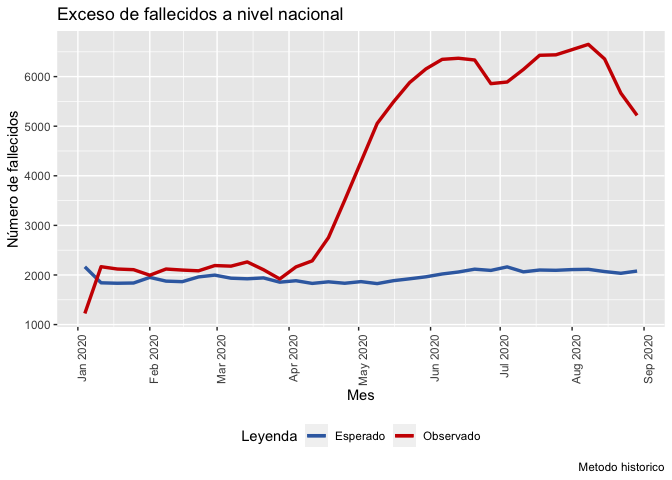
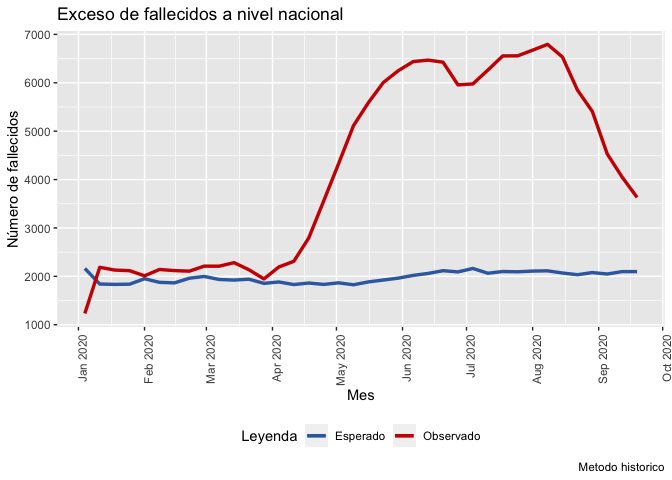
update readme, graficos

diff --git a/README.md b/README.md
@@ -99,14 +99,14 @@ sinadef=da_sinadef()
 ``` r
 head(sinadef)
 #> # A tibble: 6 x 6
-#>   fecha      semana  year dia      `DEPARTAMENTO DOMICILIO` `PROVINCIA DOMICILI…
-#>   <date>      <dbl> <dbl> <chr>    <chr>                    <chr>               
-#> 1 2020-01-24      4  2020 Friday   CUSCO                    CUSCO               
-#> 2 2020-01-30      5  2020 Thursday CALLAO                   CALLAO              
-#> 3 2020-01-19      4  2020 Sunday   CAJAMARCA                CAJAMARCA           
-#> 4 2020-01-13      3  2020 Monday   LA LIBERTAD              TRUJILLO            
-#> 5 2020-01-25      4  2020 Saturday CAJAMARCA                CAJAMARCA           
-#> 6 2020-01-12      3  2020 Sunday   JUNIN                    YAULI
+#>   fecha      semana  year dia       `DEPARTAMENTO DOMICILI… `PROVINCIA DOMICILI…
+#>   <date>      <dbl> <dbl> <chr>     <chr>                   <chr>               
+#> 1 2020-01-22      4  2020 Wednesday LIMA                    LIMA                
+#> 2 2020-01-24      4  2020 Friday    CUSCO                   CUSCO               
+#> 3 2020-01-30      5  2020 Thursday  CALLAO                  CALLAO              
+#> 4 2020-01-19      4  2020 Sunday    CAJAMARCA               CAJAMARCA           
+#> 5 2020-01-13      3  2020 Monday    LA LIBERTAD             TRUJILLO            
+#> 6 2020-01-25      4  2020 Saturday  CAJAMARCA               CAJAMARCA
 ```
 
 Una vez con las bases podemos usar las otras funciones para generar
@@ -183,28 +183,28 @@ muertos de los años 2017,2018, 2019 con la semana de comparación.
 
 ``` r
 base=exceso_muertes(sinadef)[1]
-#> [1] "Ojo: archivo actualizado al 2020-08-31 tomamos referencia hasta la semana 35"
+#> [1] "Ojo: archivo actualizado al 2020-09-23 tomamos referencia hasta la semana 38"
 head(base,30)
 #> [[1]]
-#> # A tibble: 35 x 6
+#> # A tibble: 38 x 6
 #>    semana  year numero_fallecidos Esperado Exceso fecha_ultima
 #>     <dbl> <dbl>             <int>    <dbl>  <dbl> <date>      
-#>  1      1  2020              1224     1224      0 2020-01-04  
-#>  2      2  2020              2167     2167      0 2020-01-11  
-#>  3      3  2020              2120     2120      0 2020-01-18  
-#>  4      4  2020              2107     2107      0 2020-01-25  
-#>  5      5  2020              1995     1995      0 2020-02-01  
-#>  6      6  2020              2120     2120      0 2020-02-08  
-#>  7      7  2020              2099     2099      0 2020-02-15  
-#>  8      8  2020              2084     2084      0 2020-02-22  
-#>  9      9  2020              2190     2190      0 2020-02-29  
-#> 10     10  2020              2178     2178      0 2020-03-07  
-#> # … with 25 more rows
+#>  1      1  2020              1233     1233      0 2020-01-04  
+#>  2      2  2020              2187     2187      0 2020-01-11  
+#>  3      3  2020              2130     2130      0 2020-01-18  
+#>  4      4  2020              2117     2117      0 2020-01-25  
+#>  5      5  2020              2011     2011      0 2020-02-01  
+#>  6      6  2020              2142     2142      0 2020-02-08  
+#>  7      7  2020              2119     2119      0 2020-02-15  
+#>  8      8  2020              2107     2107      0 2020-02-22  
+#>  9      9  2020              2211     2211      0 2020-02-29  
+#> 10     10  2020              2210     2210      0 2020-03-07  
+#> # … with 28 more rows
 ```
 
 ``` r
 grafico=exceso_muertes(sinadef)[2]
-#> [1] "Ojo: archivo actualizado al 2020-08-31 tomamos referencia hasta la semana 35"
+#> [1] "Ojo: archivo actualizado al 2020-09-23 tomamos referencia hasta la semana 38"
 print(grafico)
 #> [[1]]
 ```
@@ -213,7 +213,7 @@ print(grafico)
 
 ``` r
 grafico=exceso_muertes(sinadef,metodo = FALSE)[2]
-#> [1] "Ojo: archivo actualizado al 2020-08-31 tomamos referencia hasta la semana 35"
+#> [1] "Ojo: archivo actualizado al 2020-09-23 tomamos referencia hasta la semana 38"
 print(grafico)
 #> [[1]]
 ```
@@ -224,7 +224,7 @@ print(grafico)
 
 ``` r
 Lima=exceso_muertes(sinadef,"Lima")[2]
-#> [1] "Ojo: archivo actualizado al 2020-08-31 tomamos referencia hasta la semana 35"
+#> [1] "Ojo: archivo actualizado al 2020-09-23 tomamos referencia hasta la semana 38"
 print(Lima)
 #> [[1]]
 ```
@@ -326,7 +326,7 @@ resultados <- sird_villaverde(sinadef,"Lima")
 ``` r
 S <- resultados[["S"]]
 head(S)
-#> [1] 11245182 11241754 11238261 11234677 11230993 11227175
+#> [1] 11245182 11241647 11238049 11234361 11230574 11226654
 ```
 
 **R0**
@@ -334,7 +334,7 @@ head(S)
 ``` r
 r0 <- resultados[["R0"]]
 head(r0)
-#> [1] 1.058063 1.072254 1.092854 1.113420 1.141351 1.175136
+#> [1] 1.051583 1.065327 1.085292 1.105263 1.132675 1.165557
 ```
 
 Adicional, el paquete contiene la función sird\_graficos que permite
@@ -357,7 +357,6 @@ print(graficos[[1]])
 
 ``` r
 print(graficos[[2]])
-#> Warning: Removed 15 row(s) containing missing values (geom_path).
 ```
 
 <img src="man/figures/README-unnamed-chunk-16-1.png" width="100%" />
